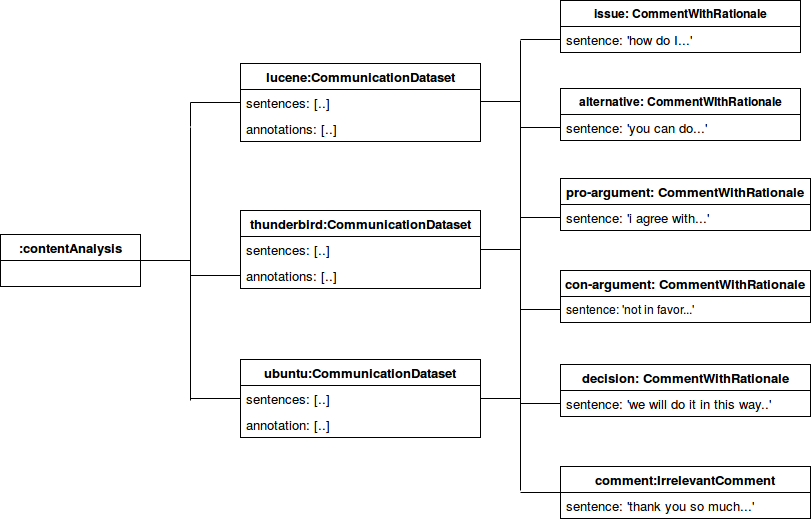
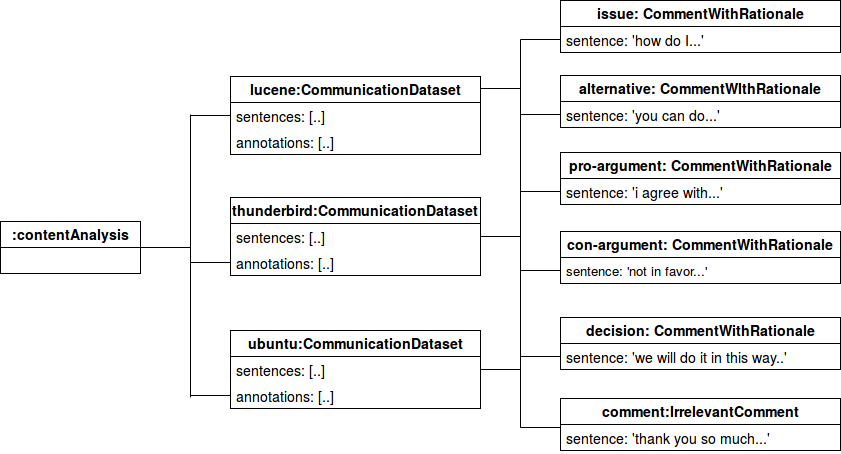
Protocol: Updated Chapter 6

Changed region(s): [[0.2158, 0.0, 1.0, 1.0], [0.0, 0.4317, 0.185, 0.5551], [0.2774, 0.3084, 0.4007, 0.3392]]

diff --git a/thesis-template-master/thesis.tex b/thesis-template-master/thesis.tex
@@ -829,7 +829,6 @@ The \acs{IRC} messages dataset has been scraped by Nonnenmacher \cite{Nonnenmach
 \chapter{Content Analysis}
 
 This chapter dives into the procedure of manual content analysis and the formation of ground truth for machine learning experiments to be carried out later. Section 6.1 describes how samples were obtained from raw datasets. Section 6.2 presents how the manual annotations were carried out. The results from the manual annotation are later discussed in Section 6.3. Figure  \ref{fig:contentObject} presents instances of content analysis approach using UML object diagram. 
-
 \begin{figure}[h] %b!]
     \centering
     \includegraphics[width=13cm]{content-analysis-object-diagram}
@@ -838,15 +837,17 @@ This chapter dives into the procedure of manual content analysis and the formati
 \end{figure}
 
 \section{Random Stratified Sampling}
-For the main content analysis, two annotators, the author and his advisor, individually read through each sentence of all comments spanning 100 issues from each of the three projects. Although the number of issues fetched for each of them were much higher, only 100 of them were attained for each project using Random Stratified Sampling (RSS) due to time constraints of the research. RSS can be of two types: proportionate random stratified sampling and disproportionate random stratified sampling. In proportionate random stratified sampling\footnote{\url{http://www.oxfordreference.com/view/10.1093/oi/authority.20110803100349910}}, the parent dataset is divided into multiple strata and the child dataset sampled randomly must have the strata in the same proportion as the parent dataset. Contrary to proportionate random stratified sampling, the case of disproportionate random stratified sampling\footnote{\url{http://www.oxfordreference.com/view/10.1093/oi/authority.20110803095722568}} has the parent dataset divided into multiple strate but the child dataset sampled randomly may not have its strata in the same proportion as the parent dataset. There are, however, three steps carried out sequentially to obtain the sample which are as follows.
-\newline 
+For the main content analysis, two annotators, the author and his advisor, individually read through each sentence of all comments spanning 100 issues from each of the three projects. Although the number of issues fetched for each of them were much higher, only 100 of them were attained for each project using random stratified sampling due to time constraints of the research. 
+\newline \newline 
+Random stratified sampling can be of two types: proportionate random stratified sampling and disproportionate random stratified sampling. In proportionate random stratified sampling\footnote{\url{http://www.oxfordreference.com/view/10.1093/oi/authority.20110803100349910}}, the parent dataset is divided into multiple strata and the child dataset sampled randomly must have the strata in the same proportion as the parent dataset. Contrary to proportionate random stratified sampling, the case of disproportionate random stratified sampling\footnote{\url{http://www.oxfordreference.com/view/10.1093/oi/authority.20110803095722568}} has the parent dataset divided into multiple strate but the child dataset sampled randomly may not have its strata in the same proportion as the parent dataset. There are, however, three steps carried out sequentially to obtain the sample which are as follows.
 \begin{itemize}
-\item {Step 1:} Filter the dataset by discarding issues that do not fall under the required date range. The required date range is the range used in the \acs{IRC} message dataset which can be referred in Table \ref{tab:rawIRCMessages}. This is to make sure the comments from issue trackers are from the same duration as messages from \acs{IRC}. 
+\item {Step 1:} Filter the dataset by discarding issues that do not fall under the required date range. The required date range is the range used in the \acs{IRC} messages dataset which can be referred in Table \ref{tab:rawIRCMessages}. This is to make sure the comments from issue trackers are from the same duration as messages from \acs{IRC}. 
 \item {Step 2:} In the next step, count the number of comments for each issue that are under the required date range but only consider issues that have between 5 and 30 comments to avoid issues with too few comments (less than 5) or way too many comments (greater than 30). The 5 groups (stratas) are: 6-10, 11-15, 16-20, 21-25 and 26-30 comments.
 \item {Step 3:} Perform proportionate random stratified sampling to obtain 100 random issues from the filtered dataset in step 2 for each of the three projects. 
 \end{itemize}
-
-\begin{table} %[hb!]
+\noindent
+From Table \ref{tab:strataProportion} and Figure \ref{fig:multilineStrata}, it can be seen that there is an inverse correlation between the number of issues and comments in each strata. All the three projects, Apache Lucene, Mozilla Thunderbird and Ubuntu, demonstrate that the number of issues in each strata gradually decreases as the number of comments in them increases.
+\begin{table}[H] %[hb!]
     \centering
     \begin{adjustbox}{max width=\columnwidth}
     \def\arraystretch{1} % 1 is the default, change whatever you need (line spacing)
@@ -863,18 +864,16 @@ For the main content analysis, two annotators, the author and his advisor, indiv
     \captionof{table}{Number of issues in each strata after RSS}
     \label{tab:strataProportion}
 \end{table}
-\noindent \newline
-From Table \ref{tab:strataProportion} and Figure \ref{fig:multilineStrata}, it can be seen that there is an inverse correlation between the number of issues and comments in each strata. All the three projects, Apache Lucene, Mozilla Thunderbird and Ubuntu, demonstrate that the number of issues in each strata gradually decreases as the number of comments in them increases. The figures on number of comments and the number of sentences under each project after performing the random stratified sampling are presented in Table \ref{tab:overviewRSS}. 
-\newline 
-\begin{figure}[h] %b!]
+
+\begin{figure}[H] %b!]
     \centering
     \includegraphics[width=12cm]{rss-multi-line-plot}
     \caption{Number of issues in each strata for all 3 projects}
     \label{fig:multilineStrata}
 \end{figure}
-\newline 
-
-\begin{table} %[hb!]
+\noindent
+The figures on number of comments and the number of sentences under each project after performing the random stratified sampling are presented in Table \ref{tab:overviewRSS}. 
+\begin{table}[H] %[hb!]
     \centering
     \begin{adjustbox}{max width=\columnwidth}
     \def\arraystretch{1} % 1 is the default, change whatever you need (line spacing)
@@ -888,7 +887,7 @@ From Table \ref{tab:strataProportion} and Figure \ref{fig:multilineStrata}, it c
         \midrule
     \end{tabular}
     \end{adjustbox}
-    \captionof{table}{Overview of dataset after Random Stratified Sampling}
+    \captionof{table}{Overview of dataset after random stratified sampling}
     \label{tab:overviewRSS}
 \end{table}
 
@@ -900,7 +899,7 @@ To perform this step, Excel was used since it was a tool to achieve the goal wit
 The second step of this annotation task was to keep all the complete agreements intact but discuss the sub-agreements and complete disagreements. Sub-agreements were those sentences were there was an overlap of labeling between the author and his advisor. For an example, a sentence was labeled as an issue and decision by the author while the advisor marked it as an issue and an alternative. One can note that both had agreed that the sentece does belong to the class of issue but had conflicting opinions about decision or an alternative. 
 \newline \newline
 Complete disagreements are cases were both of them marked a given sentence as completely different with no overlap of opinions. For example, a sentence was marked as an alternative by the author while his advisor marked it as a decision. Both, the author and his advisor, then sat once again, this time together, to resolve all the conflicting opinions and come to a mutual conclusion on the labels. Table \ref{tab:labelBinary} and Table \ref{tab:labelFine} gives the statistics of agreements and disagreements between two annotators. 
-\begin{table} %[hb!]
+\begin{table}[H] %[hb!]
     \centering
     \begin{adjustbox}{max width=\columnwidth}
     \def\arraystretch{1} % 1 is the default, change whatever you need (line spacing)
@@ -917,7 +916,7 @@ Complete disagreements are cases were both of them marked a given sentence as co
     \captionof{table}{Annotation Statistics for Binary Classification}
     \label{tab:labelBinary}
 \end{table}
-\begin{table} %[hb!]
+\begin{table}[H] %[hb!]
     \centering
     \begin{adjustbox}{max width=\columnwidth}
     \def\arraystretch{1} % 1 is the default, change whatever you need (line spacing)
@@ -937,7 +936,7 @@ Complete disagreements are cases were both of them marked a given sentence as co
 
 \section{Annotation Results}
 The results of manual annotation from both the annotators are presented in this section. Table \ref{tab:distroBinaryRationale} gives a detailed overview with both, number and percentages, for all three projects. It can be inferred that Apache Lucene had the highest ratio between sentences with rationale to ones without any rationale whereas Mozilla Thunderbird and Ubuntu appear to be having a healthy ratio between both, rationale and no rationale. Ubuntu is the only project though where the number of sentences with rationale has been outnumbered marginally by the number of sentences not containing any kind of rationale in it. Figure \ref{fig:distroBinaryRationale} shows the proportion of messages with rationale for all projects. 
-\begin{table} [!htbp] %[hb!]
+\begin{table}[H] %[hb!]
     \centering
     \begin{adjustbox}{max width=\columnwidth}
     \def\arraystretch{1} % 1 is the default, change whatever you need (line spacing)
@@ -957,15 +956,15 @@ The results of manual annotation from both the annotators are presented in this 
 
 \begin{figure}[H] %b!]
     \centering
-    \includegraphics[width=12cm]{binary-distro-rationale}
+    \includegraphics[width=11cm]{binary-distro-rationale}
     \caption{Distribution of Rationale Frequency}
     \label{fig:distroBinaryRationale}
 \end{figure}
-\noindent \newline
+\noindent
 Similarly, Table \ref{tab:distroMultiRationale} presents complete overview with numbers and percentage for fine grained rationale. Apache Lucene (11\%) had the least percentage of issues compared to Mozilla Thunderbird (24\%) and Ubuntu (25\%). However, higher percentage of decisions were made in Apache Lucene (8\%) than Mozilla Thunderbird (3\%) or Ubuntu (4\%). The numbers look very similar even in the case of alternatives, pro-arguments and con-arguments, where Apache Lucene outnumbers Mozilla Thunderbird and Ubuntu. 
 \newline \newline
-The following numbers can also lead to the inference that due to lesser number of issues, more number of final decisions were reached in case of Apache Lucene. This leads to another observation that lesser decisions were made in the case of Mozilla Thunderbird and Ubuntu because the numbers for alternatives, pro-argument and con-argument are also low, which are crucial to reach a final conclusion. Figure \ref{fig:distroMultiRationale} shows the distribution of fine-grained rationale in the dataset across all three projects. 
-\begin{table}  %[hb!]
+The following numbers can also lead to an observation that lesser decisions were made in the case of Mozilla Thunderbird and Ubuntu because the numbers for alternatives, pro-argument and con-argument were low, which are crucial to reach a final conclusion. Figure \ref{fig:distroMultiRationale} shows the distribution of fine-grained rationale in the dataset across all three projects. 
+\begin{table}[H]  %[hb!]
     \centering
     \begin{adjustbox}{max width=\columnwidth}
     \def\arraystretch{1} % 1 is the default, change whatever you need (line spacing)
@@ -983,15 +982,15 @@ The following numbers can also lead to the inference that due to lesser number o
     \label{tab:distroMultiRationale}
 \end{table}
 
-\begin{figure}[!htbp] %b!]
+\begin{figure}[H] %b!]
     \centering
-    \includegraphics[width=12cm]{multi-distro-rationale}
+    \includegraphics[width=13cm]{multi-distro-rationale}
     \caption{Distribution of Fine Grained Rationale Frequency}
     \label{fig:distroMultiRationale}
 \end{figure}
-\noindent \newline
+\noindent
 During the content analysis phase, instances of rationale completeness was observed. In other words, there existed some issues which had alternatives with pro-argument and con-arguments before leading to a decision. An example of a conversation between developers with rationale completeness is shown in Table \ref{tab:rationaleExample}. Figure \ref{fig:rationaleComplete} shows an instance of rationale completeness. 
-\begin{table} [!htbp]%[hb!]
+\begin{table} [H]%[hb!]
     \centering
     \begin{adjustbox}{max width=\columnwidth}
     \def\arraystretch{1} % 1 is the default, change whatever you need (line spacing)
@@ -1012,15 +1011,15 @@ During the content analysis phase, instances of rationale completeness was obser
     \captionof{table}{Example of a conversation that is rationale complete}
     \label{tab:rationaleExample}
 \end{table}
-\begin{figure}[h] %b!]
+\begin{figure}[H] %b!]
     \centering
-    \includegraphics[width=9cm]{rationale-complete}
-    \caption{UML object diagram of conversations with rationale completeness}
+    \includegraphics[width=10cm]{rationale-complete}
+    \caption{UML object diagram of a conversation that is rationale complete}
     \label{fig:rationaleComplete}
 \end{figure}
-\noindent \newline
+\noindent
 Similar to rationale completeness, instances of the opposite were also encountered. Some issues had alternatives and arguments but no decision. It could be possible that the decision could be found from other development artifacts. However, this is beyond the scope of this thesis. An example of a conversation between developers with no rationale completeness is shown in Table \ref{tab:incompleterationaleExample}. Figure \ref{fig:rationaleInComplete} shows an instance of rationale incompleteness. 
-\begin{table} [!htbp]%[hb!]
+\begin{table} [H]%[hb!]
     \centering
     \begin{adjustbox}{max width=\columnwidth}
     \def\arraystretch{1} % 1 is the default, change whatever you need (line spacing)
@@ -1040,10 +1039,10 @@ Similar to rationale completeness, instances of the opposite were also encounter
     \label{tab:incompleterationaleExample}
 \end{table}
 
-\begin{figure}[h] %b!]
+\begin{figure}[H] %b!]
     \centering
-    \includegraphics[width=9cm]{rationale-incomplete}
-    \caption{UML object diagram of conversations with rationale completeness}
+    \includegraphics[width=10cm]{rationale-incomplete}
+    \caption{UML object diagram of a conversation that is not rationale complete}
     \label{fig:rationaleInComplete}
 \end{figure}
 
